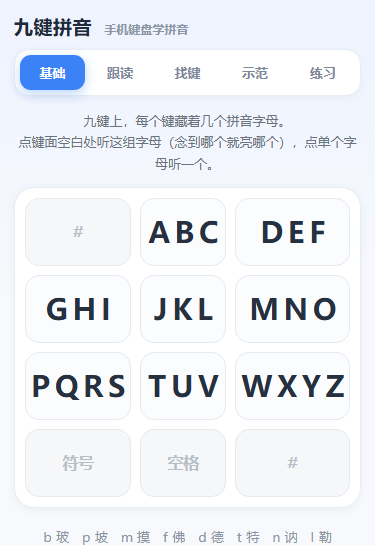
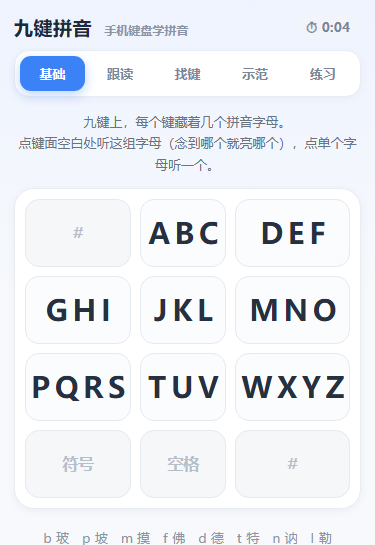
sync: 2026-09-28 11:58

diff --git a/pinyin-nine-key.html b/pinyin-nine-key.html
@@ -20,6 +20,13 @@
   .brand-row { display: flex; align-items: center; justify-content: space-between; margin-bottom: 10px; }
   .brand { font-size: 19px; font-weight: 800; letter-spacing: .5px; }
   .brand small { font-weight: 600; font-size: 12px; color: #8b95a5; margin-left: 6px; letter-spacing: 0; }
+  /* 右上角：本页练习总时长。tabular-nums 让数字等宽，走秒时不会左右抖 */
+  .timer {
+    flex: none;
+    font-size: 12.5px; font-weight: 800; color: #7b8698;
+    background: #f1f5fb; border-radius: 999px; padding: 5px 11px;
+    font-variant-numeric: tabular-nums; letter-spacing: .4px; white-space: nowrap;
+  }
   .tabs {
     display: grid; grid-template-columns: repeat(5, 1fr); gap: 3px;
     background: #fff; padding: 5px; border-radius: 15px;
@@ -268,6 +275,7 @@
   <div class="top">
     <div class="brand-row">
       <div class="brand">九键拼音 <small>手机键盘学拼音</small></div>
+      <div class="timer" id="pageTimer" title="本页累计练习时长">⏱ 0:00</div>
     </div>
     <div class="tabs">
       <button class="tab active" data-page="basic">基础</button>
@@ -1176,6 +1184,68 @@ function createKeypad(onKey, opts) {
 }
 
 /* =========================================================
+   右上角：本页练习总时长
+   ---------------------------------------------------------
+   五个页面各记各的：切到某页就开始走，切走、或切到别的 App 就停。
+   口径按「停留」算，不按「有没有按键」——这是给自己看进度的，
+   简单可预期；发呆那点偏差，比"点一下才开始算"带来的困惑小得多。
+   数字存 localStorage，关掉再打开接着累加。
+   ========================================================= */
+const TIME_KEY = 'ninekey-page-seconds';
+
+let timeStore = {};
+try { timeStore = JSON.parse(localStorage.getItem(TIME_KEY)) || {}; } catch (e) { timeStore = {}; }
+
+let timePage = 'basic';       // 正在计时的那一页
+let timeFrom = Date.now();    // 这一段从什么时候开始算
+let timeOn = true;            // 页面在不在前台（切到别的 App 要停表）
+
+function saveTime() {
+  try { localStorage.setItem(TIME_KEY, JSON.stringify(timeStore)); } catch (e) {}
+}
+
+/* 结算「当前这一段」并落盘，然后把起点挪到现在 */
+function settleTime() {
+  if (timeOn) {
+    const d = (Date.now() - timeFrom) / 1000;
+    if (d > 0) timeStore[timePage] = (timeStore[timePage] || 0) + d;
+  }
+  timeFrom = Date.now();
+  saveTime();
+}
+
+/* 当前页此刻的累计秒数 = 已落盘的 + 这一段还没结算的 */
+function pageSeconds() {
+  let s = timeStore[timePage] || 0;
+  if (timeOn) s += (Date.now() - timeFrom) / 1000;
+  return s;
+}
+
+/* 秒 → 0:42 / 12:05 / 1:03:20 */
+function fmtTime(sec) {
+  sec = Math.floor(sec);
+  const h = Math.floor(sec / 3600), m = Math.floor(sec / 60) % 60, s = sec % 60;
+  const p = function (n) { return n < 10 ? '0' + n : '' + n; };
+  return h ? h + ':' + p(m) + ':' + p(s) : m + ':' + p(s);
+}
+
+const pageTimer = document.getElementById('pageTimer');
+function paintTime() {
+  pageTimer.textContent = '⏱ ' + fmtTime(pageSeconds());
+}
+setInterval(paintTime, 1000);
+
+/* 切到别的 App / 锁屏就停表，回到页面接着走 */
+document.addEventListener('visibilitychange', function () {
+  if (document.hidden) { settleTime(); timeOn = false; }
+  else { timeOn = true; timeFrom = Date.now(); paintTime(); }
+});
+/* 关页面时把最后一段也存下来（pagehide 在手机上比 unload 可靠） */
+window.addEventListener('pagehide', function () { settleTime(); timeOn = false; });
+
+paintTime();
+
+/* =========================================================
    Tab 切换
    ========================================================= */
 document.querySelectorAll('.tab').forEach(function (t) {
@@ -1188,6 +1258,9 @@ document.querySelectorAll('.tab').forEach(function (t) {
     if (typeof stopDemo === 'function') stopDemo();   // 离开示范页就停掉播放
     stopVoice();                                      // 换页时把还在响的录音也掐掉
     cancelAutoNext();                                 // 也取消还没执行的「自动跳下一个」
+    settleTime();                                     // 先把上一页的练习时长结算掉
+    timePage = t.dataset.page;                        // 从这一刻起给新页计时
+    paintTime();
     /* 跟读页：切进来就自动读当前这个拼音（如果还没读过、且这题没答完）。
        播放发生在点击事件里，不会被浏览器的自动播放策略拦。 */
     if (t.dataset.page === 'read' && typeof armReadPage === 'function') armReadPage();

diff --git a/_check/timer.html b/_check/timer.html
@@ -1,0 +1,89 @@
+<!DOCTYPE html>
+<html><head><meta charset="utf-8"><title>timer</title>
+<style>
+body{margin:0}
+iframe{border:0;position:absolute;left:0;top:0;width:375px;height:900px;visibility:hidden}
+pre{position:relative;z-index:9;font:12px/1.5 monospace}
+</style>
+</head><body>
+<pre id="out">pending</pre>
+<iframe id="f" src="../pinyin-nine-key.html"></iframe>
+<script>
+/* 右上角「本页练习总时长」自检
+   断言：① 元素在、格式对
+        ② 每页各记各的（切过去显示的是那一页的旧值，不串页）
+        ③ 停在一页时数字在涨
+        ④ 切走之后原页停止累加
+        ⑤ 切回来累计不丢
+   用法：python _check/run_check.py timer.html */
+var problems = [], log = [];
+function ok(c, m) { if (!c) problems.push(m); }
+function secs(txt) {                       // "⏱ 12:05" -> 725，"⏱ 1:03:20" -> 3800
+  var m = /(\d+):(\d\d)(?::(\d\d))?$/.exec(txt || '');
+  if (!m) return null;
+  return m[3] ? (+m[1]) * 3600 + (+m[2]) * 60 + (+m[3]) : (+m[1]) * 60 + (+m[2]);
+}
+function finish() {
+  document.getElementById('out').textContent =
+    JSON.stringify({ ok: problems.length === 0, problems: problems, log: log }, null, 1);
+  document.title = problems.length ? 'FAIL' : 'PASS';
+}
+
+var f = document.getElementById('f');
+f.addEventListener('load', function () {
+  var w = f.contentWindow, d = f.contentDocument;
+  var timer = d.getElementById('pageTimer');
+  var KEY = 'ninekey-page-seconds';
+  function shown() { return timer ? timer.textContent : '(无元素)'; }
+  function store() {
+    try { return JSON.parse(w.localStorage.getItem(KEY)) || {}; } catch (e) { return null; }
+  }
+  function tab(name) { d.querySelector('.tab[data-page="' + name + '"]').click(); }
+
+  ok(!!timer, '右上角找不到 #pageTimer');
+  if (!timer) return finish();
+  ok(timer.className === 'timer', '#pageTimer 的 class 不是 timer: ' + timer.className);
+  ok(/^⏱ \d+:\d\d(:?\d\d)?$/.test(shown()), '初始格式不对: ' + JSON.stringify(shown()));
+  log.push('t0 初始: ' + shown());
+
+  var a1, basicAfterLeave;
+  setTimeout(function () {                       // 在基础页待 1.2 秒
+    a1 = secs(shown());
+    ok(a1 !== null && a1 >= 1, '基础页停 1.2 秒了，显示还是 ' + shown() + '（没在走？）');
+    log.push('t1 基础页停 1.2 秒: ' + shown());
+
+    tab('demo');                                 // 切到示范页
+    ok((basicAfterLeave = (store() || {}).basic) >= 1,
+       '切页没有把基础页的时长落盘: ' + JSON.stringify(store()));
+    var b1 = secs(shown());
+    var oldDemo = Math.floor(((store() || {}).demo) || 0);
+    ok(b1 !== null && Math.abs(b1 - oldDemo) <= 1,
+       '切到示范页显示的不是示范页自己的值: 显示 ' + shown() + '，存档 demo=' + oldDemo);
+    log.push('t2 刚切到示范页: ' + shown() + '（存档 demo=' + oldDemo + '）');
+
+    setTimeout(function () {                     // 在示范页待 2.1 秒
+      /* 为什么是 2.1 秒而不是 1.2：显示按秒取整，而刷新是每秒一次、
+         相位固定。切页后只等 1.2 秒，最后一次刷新可能还落在进位之前
+         （内部计时是对的，只是屏幕还没跳到下一秒）。≥2 秒能保证
+         至少跨过一次「已经进位的刷新」。 */
+      var b2 = secs(shown());
+      ok(b2 > b1, '示范页停 2.1 秒了，数字没涨: ' + b1 + ' → ' + b2);
+      log.push('t3 示范页再停 2.1 秒: ' + shown());
+      ok(Math.abs(((store() || {}).basic || 0) - basicAfterLeave) < 0.5,
+         '切走后基础页还在涨: ' + basicAfterLeave + ' → ' + ((store() || {}).basic));
+
+      tab('basic');                              // 切回基础页
+      var a2 = secs(shown());
+      ok(a2 >= a1, '切回基础页累计丢了: 走之前 ' + a1 + ' 秒，回来只剩 ' + a2 + ' 秒');
+      log.push('t4 切回基础页: ' + shown() + '（走之前 ' + a1 + ' 秒）');
+
+      var st = store() || {};
+      ok(st.basic >= 1 && st.demo >= 1,
+         '两个页面没有各自落盘: ' + JSON.stringify(st));
+      log.push('t5 存档: ' + JSON.stringify(st));
+      finish();
+    }, 2100);
+  }, 1200);
+});
+</script>
+</body></html>

diff --git a/README.md b/README.md
@@ -34,6 +34,9 @@
 |:---:|:---:|
 | ![示范页](docs/screenshot-demo.png) | ![练习页](docs/screenshot-practice.png) |
 
+右上角那个计时器是**本页的累计练习时长**——切到哪一页就记哪一页，五个页面各算各的；
+切走、或者切到别的 App 就停表，数字存在本机，关掉再打开接着累加。
+
 ---
 
 ## 怎么用
